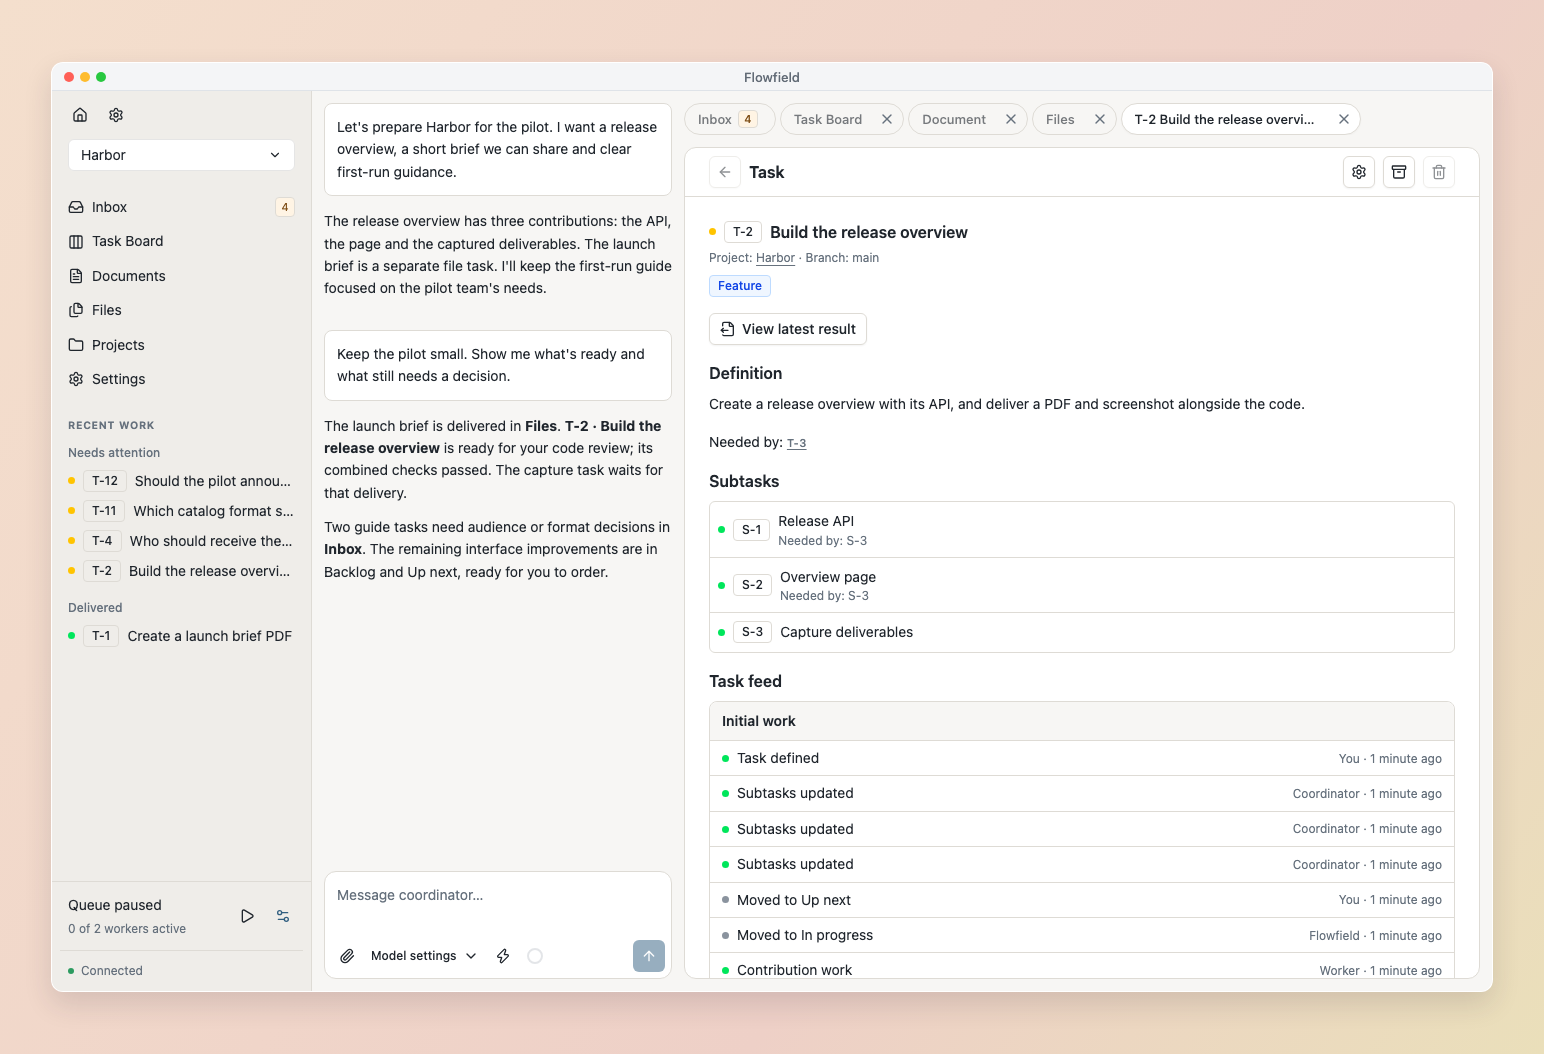
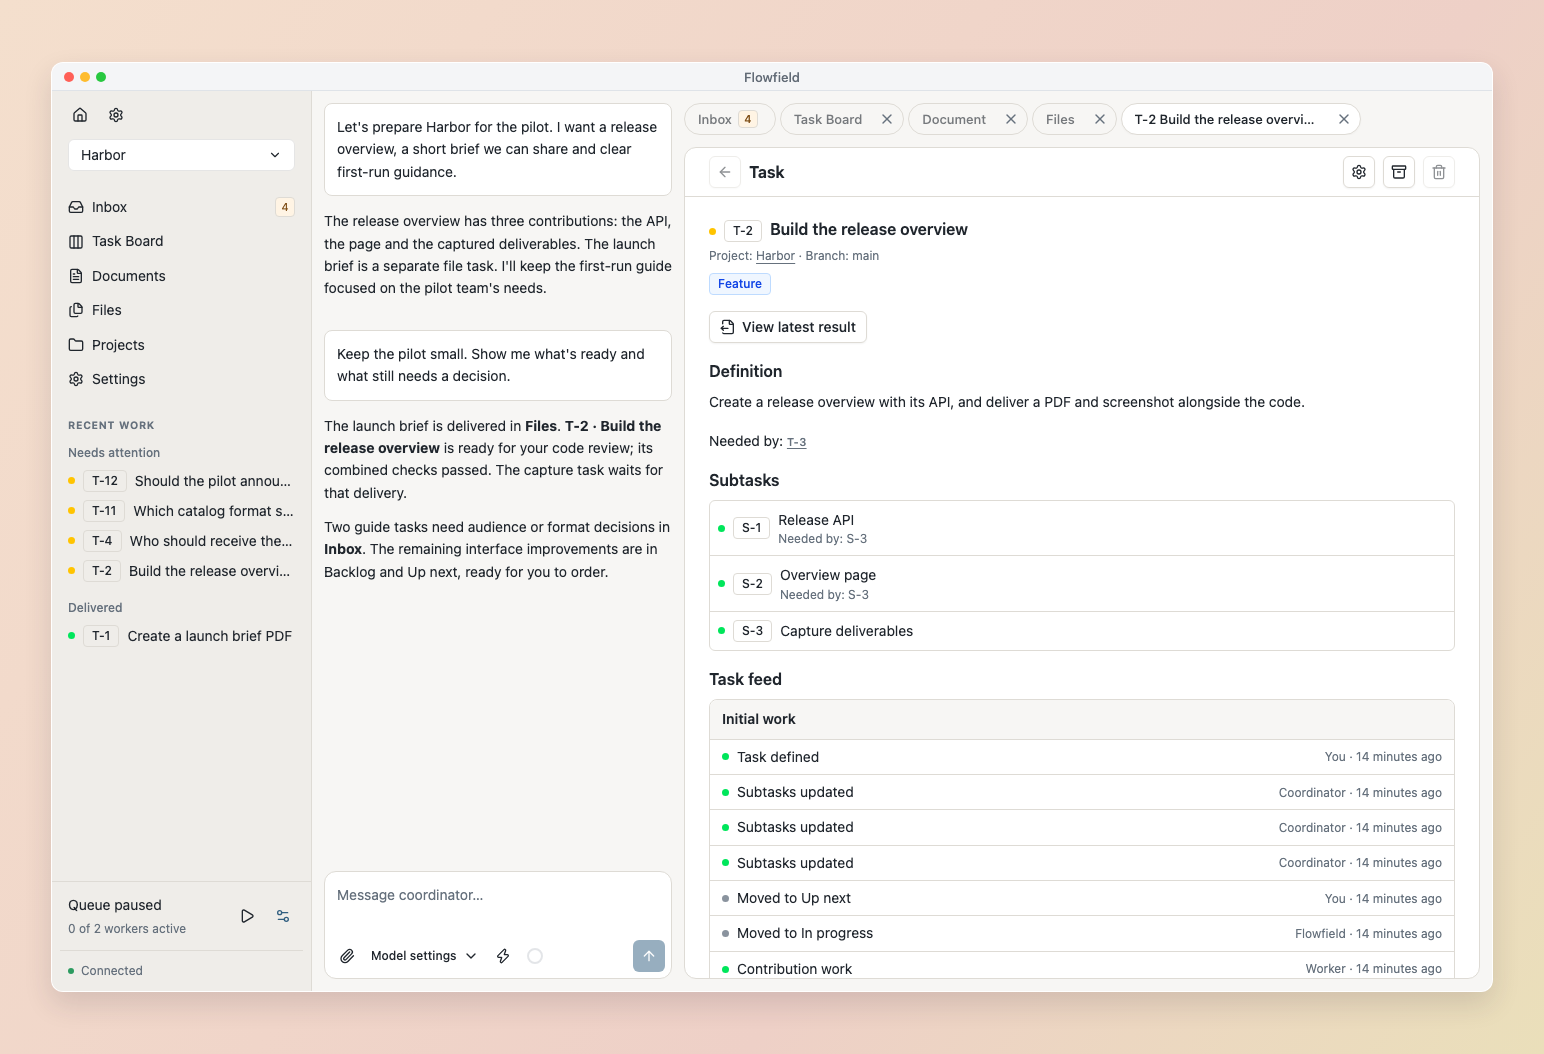
Preserve task heading flow and verify body status

Changed region(s): [[0.4663, 0.4554, 0.5907, 0.9412], [0.8083, 0.6983, 0.9326, 0.9412], [0.4663, 0.2125, 0.8394, 0.425]]

diff --git a/web/e2e/collaboration.spec.ts b/web/e2e/collaboration.spec.ts
@@ -79,7 +79,7 @@ test("coordinator dependencies update blockers, links and reconciliation without
   await expect(
     detail.getByRole("img", { name: "Waiting on prerequisites", exact: true }),
   ).toHaveCount(1);
-  await expect(detail.locator(".entity-pane-title .work-state")).toHaveCount(1);
+  await expect(detail.locator(".task-summary .work-state")).toHaveCount(1);
   await detail.getByRole("link", { name: "T-3", exact: true }).hover();
   await expect(page.getByRole("tooltip")).toHaveText("Prepare export settings");
   await expect(detail.getByLabel("Add prerequisite")).toHaveCount(0);
@@ -150,7 +150,7 @@ test("coordinator dependencies update blockers, links and reconciliation without
   await page.goto(`/workspaces/${workspace}/tasks/T-2`);
   await expect(
     detail
-      .locator(".entity-pane-title")
+      .locator(".task-summary")
       .getByRole("img", { name: "Done", exact: true }),
   ).toHaveCount(1);
   await expect(
@@ -168,7 +168,7 @@ test("coordinator dependencies update blockers, links and reconciliation without
   await page.reload();
   await expect(
     detail
-      .locator(".entity-pane-title")
+      .locator(".task-summary")
       .getByRole("img", { name: "Done", exact: true }),
   ).toHaveCount(1);
 });

diff --git a/web/e2e/task-deletion.spec.ts b/web/e2e/task-deletion.spec.ts
@@ -27,6 +27,8 @@ test("permanent deletion confirms exact task and removes it from the board", asy
   const task = await response.json();
   await page.goto(`${base}/tasks/${task.key}`);
   await expect(page.locator(".editor-heading h2")).toHaveText("Task");
+  await expect(page.locator(".editor-heading .work-state")).toHaveCount(0);
+  await expect(page.locator(".task-summary .work-state")).toHaveCount(1);
   await expect(page.locator(".task-summary h3")).toContainText(task.title);
   await expect(page.locator(".editor-heading .detail-metadata")).toHaveCount(0);
   await expect(page.locator(".task-summary .detail-metadata")).toContainText(

diff --git a/web/e2e/review.spec.ts b/web/e2e/review.spec.ts
@@ -769,7 +769,7 @@ test("validated result approval delivers real Git code with the worker queue pau
       await expect(page).toHaveURL(`${workspacePath}/results/${seed.result}`);
       await page.goto(`${workspacePath}/tasks/T-1`);
       await expect(
-        page.locator('.entity-pane-title [data-tone="complete"]'),
+        page.locator('.task-summary [data-tone="complete"]'),
       ).toHaveCount(1);
       await page.screenshot({
         path: testInfo.outputPath(`delivered-task-${colorScheme}-${width}.png`),

diff --git a/web/src/detail-layout.css b/web/src/detail-layout.css
@@ -667,11 +667,14 @@
 .work-identity > .work-state {
   flex-shrink: 0;
 }
-.editor-heading .work-identity {
+.editor-heading .work-identity,
+.detail-title .work-identity {
   display: block;
 }
 .editor-heading .work-identity > .work-state,
-.editor-heading .work-identity > .work-key {
+.editor-heading .work-identity > .work-key,
+.detail-title .work-identity > .work-state,
+.detail-title .work-identity > .work-key {
   vertical-align: baseline;
   margin-right: 8px;
 }

diff --git a/web/e2e/task-feed.spec.ts b/web/e2e/task-feed.spec.ts
@@ -748,7 +748,7 @@ test("attempt activity updates without reloading the board and replays on reload
     "data-message-id",
     `attempt:${seeded.run_id}`,
   );
-  await expect(page.locator(".entity-pane-title .work-state")).toHaveCount(1);
+  await expect(page.locator(".task-summary .work-state")).toHaveCount(1);
   await closeOverlay(page);
   const activeCard = page
     .locator(".task-card")
